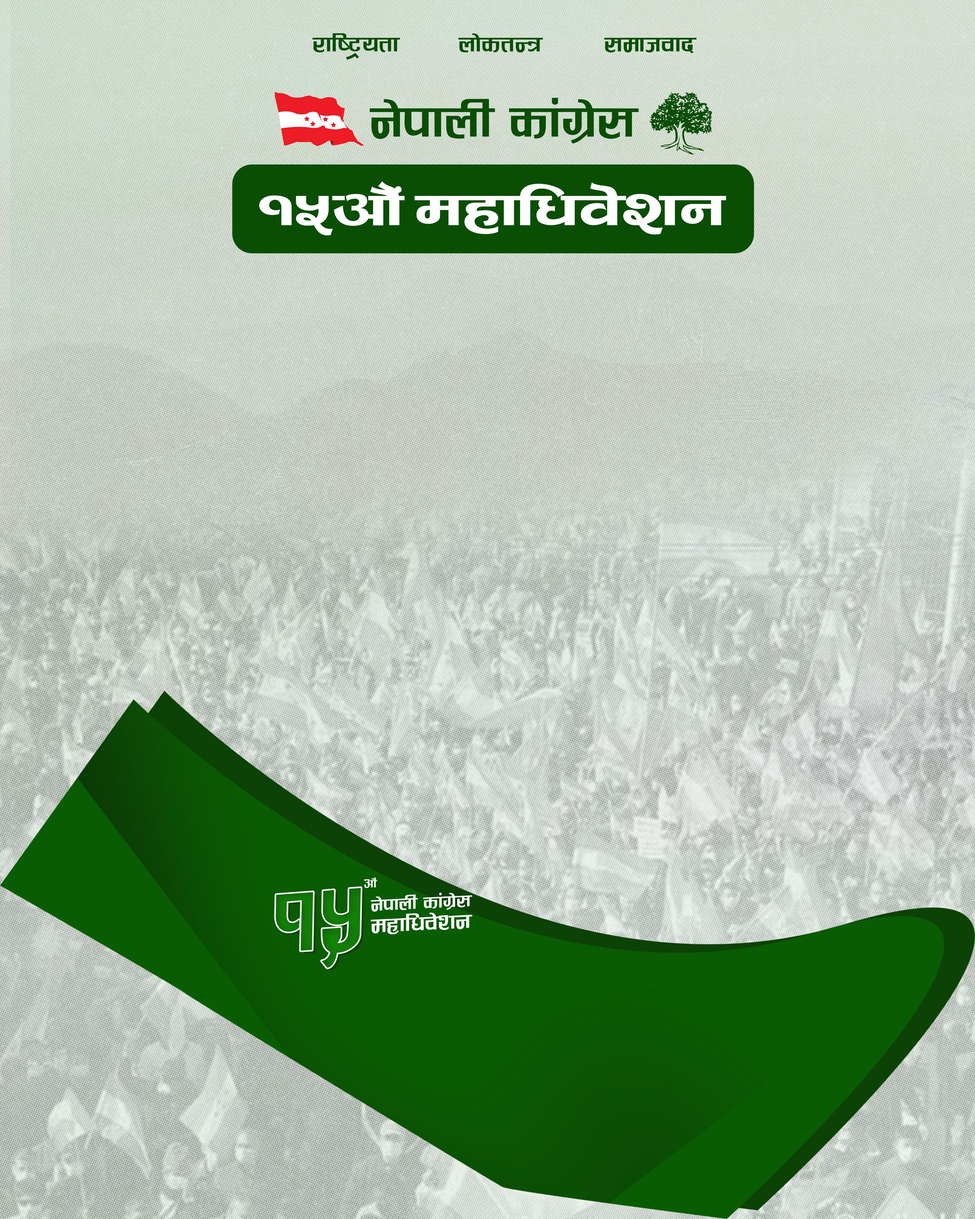
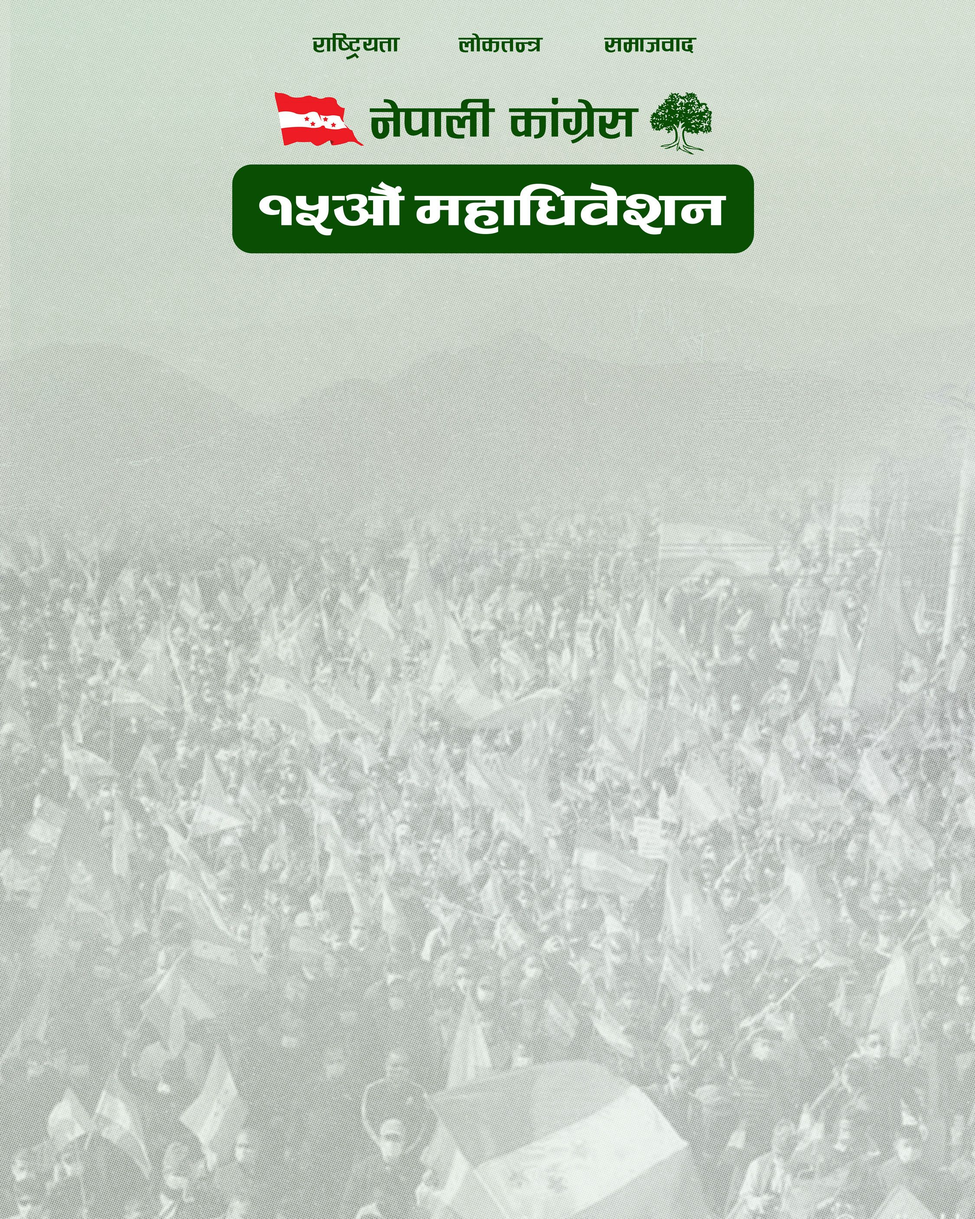
Fix: dhanyabad footer sizing, photo layering and mobile layout

Changed region(s): [[0.0, 0.5567, 1.0, 1.0]]

diff --git a/src/components/ui/input.tsx b/src/components/ui/input.tsx
@@ -6,7 +6,7 @@ function Input({ className, ...props }: ComponentProps<"input">) {
   return (
     <input
       className={cn(
-        "flex h-9 w-full rounded-md border border-input bg-transparent px-3 py-1 text-sm shadow-xs transition-colors file:border-0 file:bg-transparent file:font-medium file:text-foreground file:text-sm placeholder:text-muted-foreground focus-visible:outline-none focus-visible:ring-1 focus-visible:ring-ring disabled:cursor-not-allowed disabled:opacity-50",
+        "flex h-9 w-full rounded-md border border-input bg-transparent px-3 py-1 text-base shadow-xs transition-colors file:border-0 file:bg-transparent file:font-medium file:text-foreground file:text-sm placeholder:text-muted-foreground focus-visible:outline-none focus-visible:ring-1 focus-visible:ring-ring disabled:cursor-not-allowed disabled:opacity-50 md:text-sm",
         className,
       )}
       {...props}

diff --git a/src/features/nc-frame/lib/export.ts b/src/features/nc-frame/lib/export.ts
@@ -24,6 +24,7 @@ export type NcExportConfig = {
   hasPhoto: boolean;
   hasOverlay: boolean;
   overlaySrc: string;
+  footerSrc?: string;
   exportName: string;
   name?: NcExportText;
   designations: NcExportText[];
@@ -117,6 +118,15 @@ export async function generateNcPoster(config: NcExportConfig) {
       const width = pRect.width * sx;
       const height = pRect.height * sy;
       ctx.drawImage(safePhoto, centerX - width / 2, centerY - height / 2, width, height);
+    }
+  }
+
+  if (config.footerSrc) {
+    try {
+      const footerImage = await loadHtmlImage(config.footerSrc);
+      ctx.drawImage(footerImage, 0, 0, canvas.width, canvas.height);
+    } catch {
+      // Footer is decorative — never block the export because of it.
     }
   }
 

diff --git a/src/features/nc-frame/lib/frame.ts b/src/features/nc-frame/lib/frame.ts
@@ -46,6 +46,7 @@ export type NcFrameConfig = {
   description: string;
   thumb: string;
   src: string;
+  footerSrc?: string;
   hasOverlay: boolean;
   overlayVariants: NcOverlayVariant[];
   defaultOverlayVariantId: string;
@@ -151,6 +152,7 @@ export const NC_FRAMES: NcFrameConfig[] = [
     description: "Thank-you frame with selectable धन्यवाद greeting",
     thumb: "/frames/dhanyabad/thumb.jpg",
     src: "/frames/dhanyabad/frame.jpg",
+    footerSrc: "/frames/dhanyabad/footer.png",
     hasOverlay: true,
     overlayVariants: [
       {

diff --git a/src/features/nc-frame/nc-frame-page.tsx b/src/features/nc-frame/nc-frame-page.tsx
@@ -625,6 +625,14 @@ export function NcFramePage() {
               </div>
             )}
 
+            {nc.frame.footerSrc && (
+              <img
+                alt="Frame footer"
+                className="pointer-events-none absolute inset-0 z-20 h-full w-full object-contain"
+                src={nc.frame.footerSrc}
+              />
+            )}
+
             {nc.frame.hasOverlay && (
               <img
                 alt="Frame greeting"

diff --git a/src/index.css b/src/index.css
@@ -278,3 +278,12 @@
 .no-scrollbar::-webkit-scrollbar {
   display: none;
 }
+
+/* Short phone viewports: shrink the sticky stage so the controls below
+   stay reachable instead of being covered by the pinned preview. */
+@media (max-height: 740px) and (max-width: 1023px) {
+  #stage {
+    max-width: min(100%, 280px);
+    margin-inline: auto;
+  }
+}

diff --git a/src/features/nc-frame/hooks/use-nc-builder.ts b/src/features/nc-frame/hooks/use-nc-builder.ts
@@ -647,6 +647,7 @@ export function useNcBuilder() {
       await generateNcPoster({
         designations,
         exportName: frame.exportName,
+        footerSrc: frame.footerSrc,
         frameImage,
         hasOverlay: frame.hasOverlay,
         hasPhoto,
